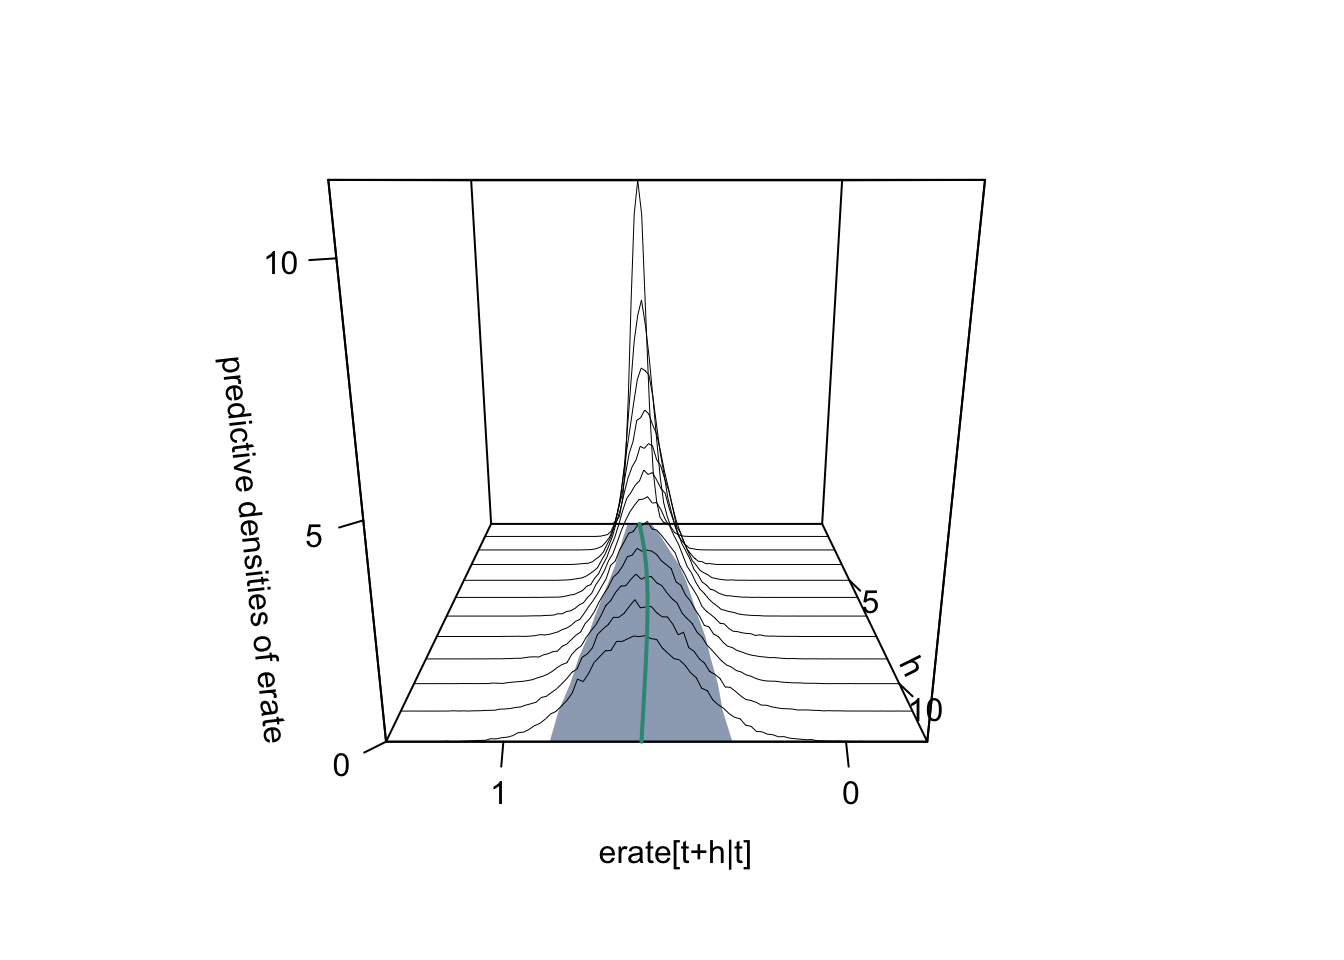
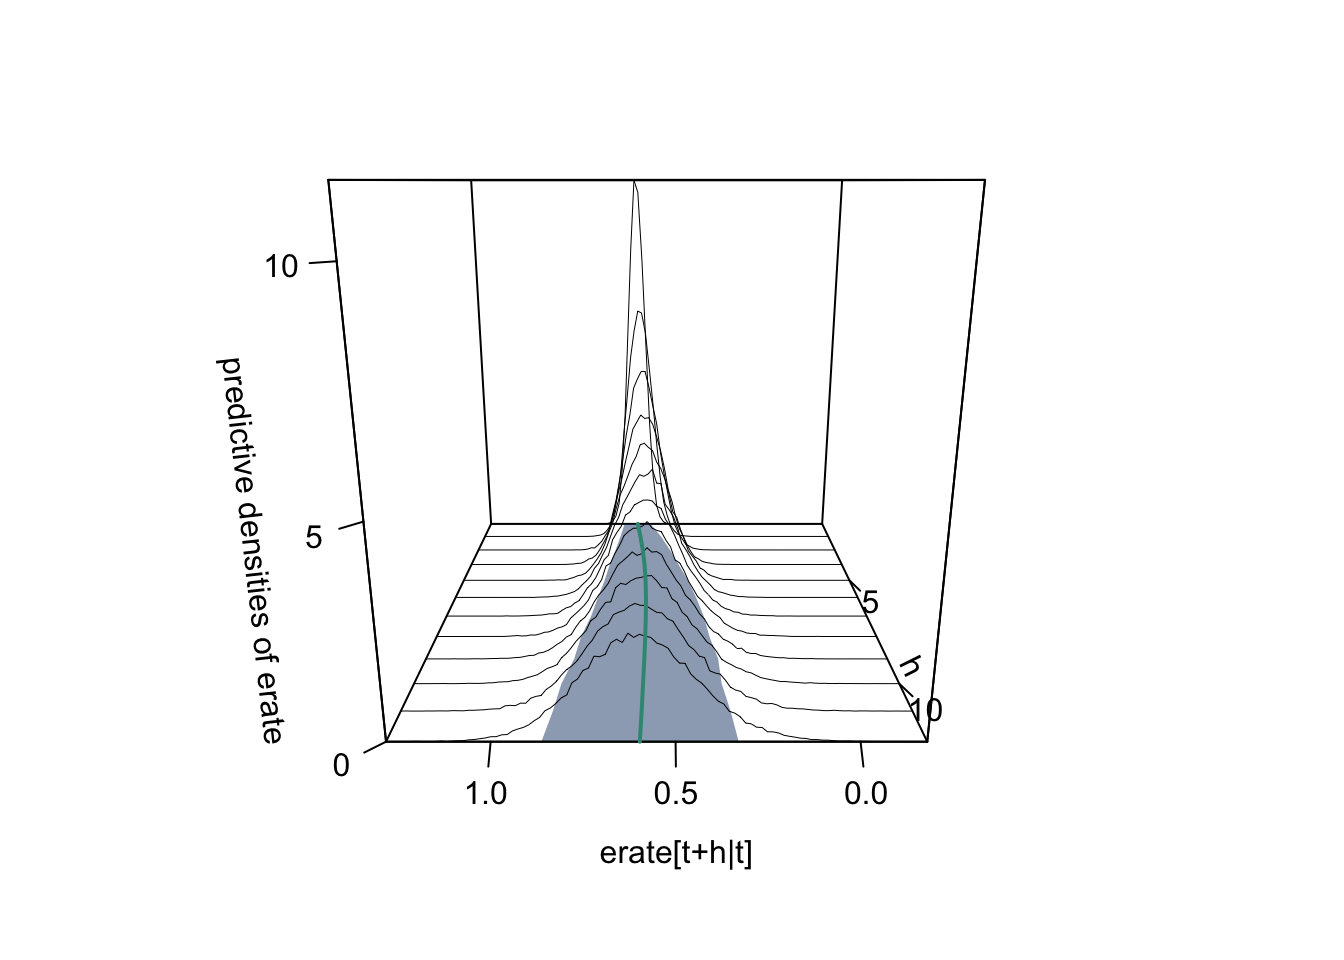
change of initial value

diff --git a/docs/index.html b/docs/index.html
@@ -583,13 +583,13 @@ p &amp;= -\frac{TN}{2}+1
 <tbody>
 <tr class="odd">
 <td style="text-align: left;">Y1-Lag</td>
-<td style="text-align: right;">0.9787016</td>
-<td style="text-align: right;">0.0881123</td>
+<td style="text-align: right;">0.9788129</td>
+<td style="text-align: right;">0.0878723</td>
 </tr>
 <tr class="even">
 <td style="text-align: left;">Y2-Lag</td>
-<td style="text-align: right;">0.0881123</td>
-<td style="text-align: right;">1.0174388</td>
+<td style="text-align: right;">0.0878723</td>
+<td style="text-align: right;">1.0174290</td>
 </tr>
 </tbody>
 </table>
@@ -609,18 +609,18 @@ p &amp;= -\frac{TN}{2}+1
 <tbody>
 <tr class="odd">
 <td style="text-align: left;">Constant</td>
-<td style="text-align: right;">0.0608157</td>
-<td style="text-align: right;">0.0809976</td>
+<td style="text-align: right;">0.0609175</td>
+<td style="text-align: right;">0.0811382</td>
 </tr>
 <tr class="even">
 <td style="text-align: left;">Y1-Lag</td>
-<td style="text-align: right;">0.9887122</td>
-<td style="text-align: right;">0.0051134</td>
+<td style="text-align: right;">0.9887131</td>
+<td style="text-align: right;">0.0050850</td>
 </tr>
 <tr class="odd">
 <td style="text-align: left;">Y2-Lag</td>
-<td style="text-align: right;">0.0025983</td>
-<td style="text-align: right;">0.9955579</td>
+<td style="text-align: right;">0.0025897</td>
+<td style="text-align: right;">0.9955687</td>
 </tr>
 </tbody>
 </table>
@@ -664,12 +664,12 @@ p &amp;= -\frac{TN}{2}+1
 <p>Interactive versions of the above 3D plots are provided below.</p>
 <div class="cell">
 <div class="cell-output-display">
-<div class="plotly html-widget html-fill-item-overflow-hidden html-fill-item" id="htmlwidget-8d248697e186e7785808" style="width:100%;height:464px;"></div>
-<script type="application/json" data-for="htmlwidget-8d248697e186e7785808">{"x":{"visdat":{"17f022ad99395":["function () ","plotlyVisDat"]},"cur_data":"17f022ad99395","attrs":{"17f022ad99395":{"y":[1,2,3,4,5,6,7,8,9,10,11,12],"x":[0.133400100270774,0.257357191651565,0.381314283032355,0.505271374413146,0.629228465793937,0.753185557174728,0.877142648555518,1.00109973993631,1.1250568313171],"z":[[0,0,0,0.112458269589248,7.05808752249877,0.896761925935495,0,0,0],[0,0,0.000645384617441882,0.523084232436645,6.03305540384671,1.50632769710935,0.00419500001337223,0,0],[0,0,0.0101648077247096,0.898698079787821,5.31829194002982,1.81046519807884,0.0296876924023265,0,0],[0,0.000322692308720941,0.0322692308720941,1.17976308068376,4.78391347678795,1.9885913524928,0.0821251925694794,0.000322692308720941,0],[0,0.000645384617441882,0.0692175002206418,1.4000005813858,4.38167751396729,2.06732827582071,0.146502308159307,0.00193615385232565,0],[0,0.00322692308720941,0.118589423454946,1.54263058184046,4.06802058989054,2.11137577596112,0.219108077621519,0.00419500001337224,0.00016134615436047],[0.00016134615436047,0.00758326925494211,0.176835385179076,1.66154269760412,3.7816311659007,2.13815923758495,0.291068462466288,0.0101648077247096,0.00016134615436047],[0.00016134615436047,0.0150051923555237,0.242987308466868,1.75947981330093,3.54703385746058,2.1204111606053,0.361899424230535,0.0200069231406984,0.000322692308720941],[0.000484038463081411,0.0240405769997101,0.31543173177472,1.79981635189105,3.35293443376493,2.11137577596112,0.432569039840421,0.0303330770197685,0.000322692308720941],[0.00129076923488376,0.0327532693351755,0.393200578176466,1.81724173656198,3.19820347173324,2.08330154510239,0.495494040041004,0.0446928847578504,0.00112942308052329],[0.00258153846976753,0.0432407693686061,0.468871924571527,1.83095615968262,3.05863904821144,2.04780539114309,0.550997117141006,0.0619569232744207,0.00225884616104658],[0.00403365385901176,0.0635703848180253,0.532442309389552,1.82934269813901,2.95263462479661,1.99649731405646,0.604080001925601,0.0797050002540725,0.00500173078517458]],"alpha_stroke":1,"sizes":[10,100],"spans":[1,20],"type":"surface","colors":["#05386B","#8EE4AF","#EDF5E1"],"inherit":true}},"layout":{"margin":{"b":40,"l":60,"t":25,"r":10},"scene":{"xaxis":{"title":"AUD/USD"},"yaxis":{"title":"h-step forecast"},"zaxis":{"title":"density"}},"title":"AUD/USD forecast densities for basic model","hovermode":"closest","showlegend":false,"legend":{"yanchor":"top","y":0.5}},"source":"A","config":{"modeBarButtonsToAdd":["hoverclosest","hovercompare"],"showSendToCloud":false},"data":[{"colorbar":{"title":"","ticklen":2,"len":0.5,"lenmode":"fraction","y":1,"yanchor":"top"},"colorscale":[["0","rgba(5,56,107,1)"],["0.0416666666666667","rgba(28,69,113,1)"],["0.0833333333333333","rgba(42,81,119,1)"],["0.125","rgba(54,95,125,1)"],["0.166666666666667","rgba(65,109,130,1)"],["0.208333333333333","rgba(76,123,136,1)"],["0.25","rgba(86,137,142,1)"],["0.291666666666667","rgba(95,151,148,1)"],["0.333333333333333","rgba(105,166,153,1)"],["0.375","rgba(114,181,159,1)"],["0.416666666666667","rgba(124,197,164,1)"],["0.458333333333333","rgba(133,212,170,1)"],["0.5","rgba(142,228,175,1)"],["0.541666666666667","rgba(151,230,179,1)"],["0.583333333333333","rgba(159,231,183,1)"],["0.625","rgba(168,233,187,1)"],["0.666666666666667","rgba(176,234,191,1)"],["0.708333333333333","rgba(184,236,196,1)"],["0.75","rgba(192,237,200,1)"],["0.791666666666667","rgba(199,238,204,1)"],["0.833333333333333","rgba(207,240,208,1)"],["0.875","rgba(215,241,212,1)"],["0.916666666666667","rgba(222,242,217,1)"],["0.958333333333333","rgba(230,244,221,1)"],["1","rgba(237,245,225,1)"]],"showscale":true,"y":[1,2,3,4,5,6,7,8,9,10,11,12],"x":[0.133400100270774,0.257357191651565,0.381314283032355,0.505271374413146,0.629228465793937,0.753185557174728,0.877142648555518,1.00109973993631,1.1250568313171],"z":[[0,0,0,0.112458269589248,7.05808752249877,0.896761925935495,0,0,0],[0,0,0.000645384617441882,0.523084232436645,6.03305540384671,1.50632769710935,0.00419500001337223,0,0],[0,0,0.0101648077247096,0.898698079787821,5.31829194002982,1.81046519807884,0.0296876924023265,0,0],[0,0.000322692308720941,0.0322692308720941,1.17976308068376,4.78391347678795,1.9885913524928,0.0821251925694794,0.000322692308720941,0],[0,0.000645384617441882,0.0692175002206418,1.4000005813858,4.38167751396729,2.06732827582071,0.146502308159307,0.00193615385232565,0],[0,0.00322692308720941,0.118589423454946,1.54263058184046,4.06802058989054,2.11137577596112,0.219108077621519,0.00419500001337224,0.00016134615436047],[0.00016134615436047,0.00758326925494211,0.176835385179076,1.66154269760412,3.7816311659007,2.13815923758495,0.291068462466288,0.0101648077247096,0.00016134615436047],[0.00016134615436047,0.0150051923555237,0.242987308466868,1.75947981330093,3.54703385746058,2.1204111606053,0.361899424230535,0.0200069231406984,0.000322692308720941],[0.000484038463081411,0.0240405769997101,0.31543173177472,1.79981635189105,3.35293443376493,2.11137577596112,0.432569039840421,0.0303330770197685,0.000322692308720941],[0.00129076923488376,0.0327532693351755,0.393200578176466,1.81724173656198,3.19820347173324,2.08330154510239,0.495494040041004,0.0446928847578504,0.00112942308052329],[0.00258153846976753,0.0432407693686061,0.468871924571527,1.83095615968262,3.05863904821144,2.04780539114309,0.550997117141006,0.0619569232744207,0.00225884616104658],[0.00403365385901176,0.0635703848180253,0.532442309389552,1.82934269813901,2.95263462479661,1.99649731405646,0.604080001925601,0.0797050002540725,0.00500173078517458]],"type":"surface","frame":null}],"highlight":{"on":"plotly_click","persistent":false,"dynamic":false,"selectize":false,"opacityDim":0.2,"selected":{"opacity":1},"debounce":0},"shinyEvents":["plotly_hover","plotly_click","plotly_selected","plotly_relayout","plotly_brushed","plotly_brushing","plotly_clickannotation","plotly_doubleclick","plotly_deselect","plotly_afterplot","plotly_sunburstclick"],"base_url":"https://plot.ly"},"evals":[],"jsHooks":[]}</script>
+<div class="plotly html-widget html-fill-item-overflow-hidden html-fill-item" id="htmlwidget-03359eee4737d81a7af1" style="width:100%;height:464px;"></div>
+<script type="application/json" data-for="htmlwidget-03359eee4737d81a7af1">{"x":{"visdat":{"183df65e7c3fb":["function () ","plotlyVisDat"]},"cur_data":"183df65e7c3fb","attrs":{"183df65e7c3fb":{"y":[1,2,3,4,5,6,7,8,9,10,11,12],"x":[0.0748893688009553,0.202692718589129,0.330496068377303,0.458299418165477,0.58610276795365,0.713906117741824,0.841709467529998,0.969512817318172,1.09731616710635],"z":[[0,0,0,0.00359927968055941,4.13870216138063,3.6812806611078,0.000938942525363323,0,0],[0,0,0,0.0741764595037025,4.11679350245549,3.59536742003706,0.0381836626981085,0,0],[0,0,0.000625961683575549,0.218460627567867,3.98049034585691,3.48003397983826,0.144440658485058,0.000469471262681662,0],[0,0,0.00312980841787774,0.389661148025779,3.81210665297509,3.35891039406639,0.259148137000277,0.00156490420893887,0],[0,0,0.0117367815670415,0.565712871531402,3.62979531263371,3.22871036388268,0.38246258866466,0.0061031264148616,0],[0,0.000312980841787774,0.0289507278653691,0.712813867171656,3.48848446256653,3.07128100046343,0.506246511591725,0.0164314941938582,0],[0,0.000312980841787774,0.0533632335248155,0.846143705773248,3.32573442483689,2.95782544531536,0.611564564853311,0.0292637087071569,0.000312980841787774],[0,0.00234735631340831,0.0854437698080624,0.957408395028802,3.19850771265016,2.8365453691226,0.699512181395676,0.0441302986920762,0.000625961683575548],[0,0.00516418388949828,0.113455555148068,1.05677981229642,3.08583460960656,2.73028837333565,0.768367966588986,0.062439677936661,0.00219086589251442],[0.000156490420893887,0.00845048272826991,0.155238497526736,1.13455555148068,2.97175309277492,2.64218426637239,0.817192977907879,0.0899819920139851,0.00500769346860439],[0.000156490420893887,0.0142406283013437,0.192483217699481,1.19386542099947,2.87441605097892,2.56080924750757,0.863044671229788,0.11674185398684,0.00876346357005768],[0.000469471262681662,0.0195613026117359,0.238804382284072,1.24785461620786,2.77347972950236,2.4756784585413,0.909365835814378,0.146631524377572,0.0126757240924049]],"alpha_stroke":1,"sizes":[10,100],"spans":[1,20],"type":"surface","colors":["#05386B","#8EE4AF","#EDF5E1"],"inherit":true}},"layout":{"margin":{"b":40,"l":60,"t":25,"r":10},"scene":{"xaxis":{"title":"AUD/USD"},"yaxis":{"title":"h-step forecast"},"zaxis":{"title":"density"}},"title":"AUD/USD forecast densities for basic model","hovermode":"closest","showlegend":false,"legend":{"yanchor":"top","y":0.5}},"source":"A","config":{"modeBarButtonsToAdd":["hoverclosest","hovercompare"],"showSendToCloud":false},"data":[{"colorbar":{"title":"","ticklen":2,"len":0.5,"lenmode":"fraction","y":1,"yanchor":"top"},"colorscale":[["0","rgba(5,56,107,1)"],["0.0416666666666667","rgba(28,69,113,1)"],["0.0833333333333333","rgba(42,81,119,1)"],["0.125","rgba(54,95,125,1)"],["0.166666666666667","rgba(65,109,130,1)"],["0.208333333333333","rgba(76,123,136,1)"],["0.25","rgba(86,137,142,1)"],["0.291666666666667","rgba(95,151,148,1)"],["0.333333333333333","rgba(105,166,153,1)"],["0.375","rgba(114,181,159,1)"],["0.416666666666667","rgba(124,197,164,1)"],["0.458333333333333","rgba(133,212,170,1)"],["0.5","rgba(142,228,175,1)"],["0.541666666666667","rgba(151,230,179,1)"],["0.583333333333333","rgba(159,231,183,1)"],["0.625","rgba(168,233,187,1)"],["0.666666666666667","rgba(176,234,191,1)"],["0.708333333333333","rgba(184,236,196,1)"],["0.75","rgba(192,237,200,1)"],["0.791666666666667","rgba(199,238,204,1)"],["0.833333333333333","rgba(207,240,208,1)"],["0.875","rgba(215,241,212,1)"],["0.916666666666667","rgba(222,242,217,1)"],["0.958333333333333","rgba(230,244,221,1)"],["1","rgba(237,245,225,1)"]],"showscale":true,"y":[1,2,3,4,5,6,7,8,9,10,11,12],"x":[0.0748893688009553,0.202692718589129,0.330496068377303,0.458299418165477,0.58610276795365,0.713906117741824,0.841709467529998,0.969512817318172,1.09731616710635],"z":[[0,0,0,0.00359927968055941,4.13870216138063,3.6812806611078,0.000938942525363323,0,0],[0,0,0,0.0741764595037025,4.11679350245549,3.59536742003706,0.0381836626981085,0,0],[0,0,0.000625961683575549,0.218460627567867,3.98049034585691,3.48003397983826,0.144440658485058,0.000469471262681662,0],[0,0,0.00312980841787774,0.389661148025779,3.81210665297509,3.35891039406639,0.259148137000277,0.00156490420893887,0],[0,0,0.0117367815670415,0.565712871531402,3.62979531263371,3.22871036388268,0.38246258866466,0.0061031264148616,0],[0,0.000312980841787774,0.0289507278653691,0.712813867171656,3.48848446256653,3.07128100046343,0.506246511591725,0.0164314941938582,0],[0,0.000312980841787774,0.0533632335248155,0.846143705773248,3.32573442483689,2.95782544531536,0.611564564853311,0.0292637087071569,0.000312980841787774],[0,0.00234735631340831,0.0854437698080624,0.957408395028802,3.19850771265016,2.8365453691226,0.699512181395676,0.0441302986920762,0.000625961683575548],[0,0.00516418388949828,0.113455555148068,1.05677981229642,3.08583460960656,2.73028837333565,0.768367966588986,0.062439677936661,0.00219086589251442],[0.000156490420893887,0.00845048272826991,0.155238497526736,1.13455555148068,2.97175309277492,2.64218426637239,0.817192977907879,0.0899819920139851,0.00500769346860439],[0.000156490420893887,0.0142406283013437,0.192483217699481,1.19386542099947,2.87441605097892,2.56080924750757,0.863044671229788,0.11674185398684,0.00876346357005768],[0.000469471262681662,0.0195613026117359,0.238804382284072,1.24785461620786,2.77347972950236,2.4756784585413,0.909365835814378,0.146631524377572,0.0126757240924049]],"type":"surface","frame":null}],"highlight":{"on":"plotly_click","persistent":false,"dynamic":false,"selectize":false,"opacityDim":0.2,"selected":{"opacity":1},"debounce":0},"shinyEvents":["plotly_hover","plotly_click","plotly_selected","plotly_relayout","plotly_brushed","plotly_brushing","plotly_clickannotation","plotly_doubleclick","plotly_deselect","plotly_afterplot","plotly_sunburstclick"],"base_url":"https://plot.ly"},"evals":[],"jsHooks":[]}</script>
 </div>
 <div class="cell-output-display">
-<div class="plotly html-widget html-fill-item-overflow-hidden html-fill-item" id="htmlwidget-5457d43e2f3ddfe02772" style="width:100%;height:464px;"></div>
-<script type="application/json" data-for="htmlwidget-5457d43e2f3ddfe02772">{"x":{"visdat":{"17f023268312d":["function () ","plotlyVisDat"]},"cur_data":"17f023268312d","attrs":{"17f023268312d":{"y":[1,2,3,4,5,6,7,8,9,10,11,12],"x":[-0.156445400441394,0.0208421565402784,0.198129713521951,0.375417270503624,0.552704827485296,0.729992384466969,0.907279941448642,1.08456749843031,1.26185505541199],"z":[[0,0,0,0,3.26901428065517,2.37153950115015,0,0,0],[0,0,0,0.00990230552805823,3.71123369714871,1.91904174220976,0.000376036918787022,0,0],[0,0,0,0.0982709814430083,3.81213693702323,1.72450530955728,0.00564055378180532,0,0],[0,0,0.000626728197978369,0.298824004796086,3.66059405875206,1.66057903336349,0.0199299566957121,0,0],[0,0,0.00413640610665723,0.51166090082954,3.41729817229685,1.65794677493198,0.0493861820006955,0.000125345639595674,0],[0,0.000125345639595674,0.0162949331474376,0.676991799456234,3.18616081288243,1.67073203017074,0.0897474779505025,0.000501382558382695,0],[0,0.000376036918787021,0.0404866415894026,0.785541123346088,2.98836539360046,1.6891578391913,0.134871908204945,0.00175483895433943,0],[0,0.00150414767514809,0.0632995479958152,0.867391826002063,2.7930768871104,1.72036890345062,0.191277446022998,0.00363502354827454,0],[0,0.00325898662948752,0.0906248974276721,0.916652662363163,2.62899944487966,1.73917074938997,0.25294750070407,0.00877419477169717,0.000125345639595674],[0.000250691279191348,0.00727004709654908,0.117072827382359,0.94510612255138,2.48184366399434,1.76235969271517,0.311107877476463,0.0150414767514809,0.000501382558382695],[0.000626728197978369,0.0116571444823977,0.135122599484136,0.951373404531164,2.37442245086085,1.77664909562908,0.367012032736133,0.022687560766817,0.00100276511676539],[0.00137880203555241,0.0162949331474376,0.157559468971762,0.965036079247093,2.25208510661547,1.78855693139067,0.423918953112569,0.0343447052492146,0.00137880203555241]],"alpha_stroke":1,"sizes":[10,100],"spans":[1,20],"type":"surface","colors":["#05386B","magenta2","#EDF5E1"],"inherit":true}},"layout":{"margin":{"b":40,"l":60,"t":25,"r":10},"scene":{"xaxis":{"title":"AUD/USD"},"yaxis":{"title":"h-step forecast"},"zaxis":{"title":"density"}},"title":"AUD/USD forecast densities for extended model","hovermode":"closest","showlegend":false,"legend":{"yanchor":"top","y":0.5}},"source":"A","config":{"modeBarButtonsToAdd":["hoverclosest","hovercompare"],"showSendToCloud":false},"data":[{"colorbar":{"title":"","ticklen":2,"len":0.5,"lenmode":"fraction","y":1,"yanchor":"top"},"colorscale":[["0","rgba(5,56,107,1)"],["0.0416666666666667","rgba(40,58,117,1)"],["0.0833333333333333","rgba(62,60,127,1)"],["0.125","rgba(81,61,138,1)"],["0.166666666666667","rgba(99,62,148,1)"],["0.208333333333333","rgba(116,61,159,1)"],["0.25","rgba(134,60,170,1)"],["0.291666666666667","rgba(151,58,181,1)"],["0.333333333333333","rgba(168,55,192,1)"],["0.375","rgba(185,49,203,1)"],["0.416666666666667","rgba(203,42,215,1)"],["0.458333333333333","rgba(220,29,226,1)"],["0.5","rgba(238,0,238,1)"],["0.541666666666667","rgba(240,59,237,1)"],["0.583333333333333","rgba(242,85,237,1)"],["0.625","rgba(243,106,236,1)"],["0.666666666666667","rgba(244,125,235,1)"],["0.708333333333333","rgba(245,142,234,1)"],["0.75","rgba(245,158,233,1)"],["0.791666666666667","rgba(245,173,232,1)"],["0.833333333333333","rgba(245,188,231,1)"],["0.875","rgba(243,203,230,1)"],["0.916666666666667","rgba(242,217,228,1)"],["0.958333333333333","rgba(240,231,227,1)"],["1","rgba(237,245,225,1)"]],"showscale":true,"y":[1,2,3,4,5,6,7,8,9,10,11,12],"x":[-0.156445400441394,0.0208421565402784,0.198129713521951,0.375417270503624,0.552704827485296,0.729992384466969,0.907279941448642,1.08456749843031,1.26185505541199],"z":[[0,0,0,0,3.26901428065517,2.37153950115015,0,0,0],[0,0,0,0.00990230552805823,3.71123369714871,1.91904174220976,0.000376036918787022,0,0],[0,0,0,0.0982709814430083,3.81213693702323,1.72450530955728,0.00564055378180532,0,0],[0,0,0.000626728197978369,0.298824004796086,3.66059405875206,1.66057903336349,0.0199299566957121,0,0],[0,0,0.00413640610665723,0.51166090082954,3.41729817229685,1.65794677493198,0.0493861820006955,0.000125345639595674,0],[0,0.000125345639595674,0.0162949331474376,0.676991799456234,3.18616081288243,1.67073203017074,0.0897474779505025,0.000501382558382695,0],[0,0.000376036918787021,0.0404866415894026,0.785541123346088,2.98836539360046,1.6891578391913,0.134871908204945,0.00175483895433943,0],[0,0.00150414767514809,0.0632995479958152,0.867391826002063,2.7930768871104,1.72036890345062,0.191277446022998,0.00363502354827454,0],[0,0.00325898662948752,0.0906248974276721,0.916652662363163,2.62899944487966,1.73917074938997,0.25294750070407,0.00877419477169717,0.000125345639595674],[0.000250691279191348,0.00727004709654908,0.117072827382359,0.94510612255138,2.48184366399434,1.76235969271517,0.311107877476463,0.0150414767514809,0.000501382558382695],[0.000626728197978369,0.0116571444823977,0.135122599484136,0.951373404531164,2.37442245086085,1.77664909562908,0.367012032736133,0.022687560766817,0.00100276511676539],[0.00137880203555241,0.0162949331474376,0.157559468971762,0.965036079247093,2.25208510661547,1.78855693139067,0.423918953112569,0.0343447052492146,0.00137880203555241]],"type":"surface","frame":null}],"highlight":{"on":"plotly_click","persistent":false,"dynamic":false,"selectize":false,"opacityDim":0.2,"selected":{"opacity":1},"debounce":0},"shinyEvents":["plotly_hover","plotly_click","plotly_selected","plotly_relayout","plotly_brushed","plotly_brushing","plotly_clickannotation","plotly_doubleclick","plotly_deselect","plotly_afterplot","plotly_sunburstclick"],"base_url":"https://plot.ly"},"evals":[],"jsHooks":[]}</script>
+<div class="plotly html-widget html-fill-item-overflow-hidden html-fill-item" id="htmlwidget-04f9c57a012d8ac6bba3" style="width:100%;height:464px;"></div>
+<script type="application/json" data-for="htmlwidget-04f9c57a012d8ac6bba3">{"x":{"visdat":{"183df52f3c801":["function () ","plotlyVisDat"]},"cur_data":"183df52f3c801","attrs":{"183df52f3c801":{"y":[1,2,3,4,5,6,7,8,9,10,11,12],"x":[-0.105603237513345,0.0586114596049928,0.22282615672333,0.387040853841667,0.551255550960005,0.715470248078342,0.879684945196679,1.04389964231502,1.20811433943335],"z":[[0,0,0,0,2.96508850703071,3.12450041252485,0,0,0],[0,0,0,0.0138030682176593,3.63440199138897,2.43732413400256,0.00405972594637038,0,0],[0,0,0,0.129099285094578,3.78718301117071,2.15557915332446,0.0177274699658173,0,0],[0,0,0.00162389037854815,0.357797180073443,3.65916631966183,2.01511263558004,0.0558888938616989,0,0],[0,0,0.00906672128022717,0.590284152602253,3.43682866199895,1.95083364142918,0.102305093848534,0.000270648396424692,0],[0,0,0.0297713236067161,0.759304076169473,3.2148969769307,1.91997972423676,0.163471631440514,0.00216518717139753,0],[0,0.000676620991061729,0.0607605649973433,0.875547562433878,2.99296529186245,1.92403945018313,0.228968543375289,0.00663088571240495,0],[0,0.0032477807570963,0.0910731853969088,0.953629624802402,2.80310544177053,1.91862648225464,0.306915281545601,0.0128557988301729,0.000135324198212346],[0.000135324198212346,0.00717218250525433,0.128422664103516,0.994226884266106,2.64951247679952,1.91118365135296,0.376742567823171,0.0216518717139754,0.000541296792849383],[0.000676620991061729,0.0128557988301729,0.168884599369008,1.0127662994212,2.50498623310874,1.91199559654223,0.440886237775823,0.0354549399316346,0.00108259358569877],[0.0014885661803358,0.0198926571372148,0.189318553299072,1.02656936763886,2.39429103897104,1.89832785252279,0.505165231926688,0.0516938437171161,0.00284180816245926],[0.00243583556782223,0.0258469218585581,0.218819228509363,1.02859923061204,2.28860284016719,1.89102034581932,0.561324774184811,0.0682033958990224,0.0047363469374321]],"alpha_stroke":1,"sizes":[10,100],"spans":[1,20],"type":"surface","colors":["#05386B","magenta2","#EDF5E1"],"inherit":true}},"layout":{"margin":{"b":40,"l":60,"t":25,"r":10},"scene":{"xaxis":{"title":"AUD/USD"},"yaxis":{"title":"h-step forecast"},"zaxis":{"title":"density"}},"title":"AUD/USD forecast densities for extended model","hovermode":"closest","showlegend":false,"legend":{"yanchor":"top","y":0.5}},"source":"A","config":{"modeBarButtonsToAdd":["hoverclosest","hovercompare"],"showSendToCloud":false},"data":[{"colorbar":{"title":"","ticklen":2,"len":0.5,"lenmode":"fraction","y":1,"yanchor":"top"},"colorscale":[["0","rgba(5,56,107,1)"],["0.0416666666666667","rgba(40,58,117,1)"],["0.0833333333333333","rgba(62,60,127,1)"],["0.125","rgba(81,61,138,1)"],["0.166666666666667","rgba(99,62,148,1)"],["0.208333333333333","rgba(116,61,159,1)"],["0.25","rgba(134,60,170,1)"],["0.291666666666667","rgba(151,58,181,1)"],["0.333333333333333","rgba(168,55,192,1)"],["0.375","rgba(185,49,203,1)"],["0.416666666666667","rgba(203,42,215,1)"],["0.458333333333333","rgba(220,29,226,1)"],["0.5","rgba(238,0,238,1)"],["0.541666666666667","rgba(240,59,237,1)"],["0.583333333333333","rgba(242,85,237,1)"],["0.625","rgba(243,106,236,1)"],["0.666666666666667","rgba(244,125,235,1)"],["0.708333333333333","rgba(245,142,234,1)"],["0.75","rgba(245,158,233,1)"],["0.791666666666667","rgba(245,173,232,1)"],["0.833333333333333","rgba(245,188,231,1)"],["0.875","rgba(243,203,230,1)"],["0.916666666666667","rgba(242,217,228,1)"],["0.958333333333333","rgba(240,231,227,1)"],["1","rgba(237,245,225,1)"]],"showscale":true,"y":[1,2,3,4,5,6,7,8,9,10,11,12],"x":[-0.105603237513345,0.0586114596049928,0.22282615672333,0.387040853841667,0.551255550960005,0.715470248078342,0.879684945196679,1.04389964231502,1.20811433943335],"z":[[0,0,0,0,2.96508850703071,3.12450041252485,0,0,0],[0,0,0,0.0138030682176593,3.63440199138897,2.43732413400256,0.00405972594637038,0,0],[0,0,0,0.129099285094578,3.78718301117071,2.15557915332446,0.0177274699658173,0,0],[0,0,0.00162389037854815,0.357797180073443,3.65916631966183,2.01511263558004,0.0558888938616989,0,0],[0,0,0.00906672128022717,0.590284152602253,3.43682866199895,1.95083364142918,0.102305093848534,0.000270648396424692,0],[0,0,0.0297713236067161,0.759304076169473,3.2148969769307,1.91997972423676,0.163471631440514,0.00216518717139753,0],[0,0.000676620991061729,0.0607605649973433,0.875547562433878,2.99296529186245,1.92403945018313,0.228968543375289,0.00663088571240495,0],[0,0.0032477807570963,0.0910731853969088,0.953629624802402,2.80310544177053,1.91862648225464,0.306915281545601,0.0128557988301729,0.000135324198212346],[0.000135324198212346,0.00717218250525433,0.128422664103516,0.994226884266106,2.64951247679952,1.91118365135296,0.376742567823171,0.0216518717139754,0.000541296792849383],[0.000676620991061729,0.0128557988301729,0.168884599369008,1.0127662994212,2.50498623310874,1.91199559654223,0.440886237775823,0.0354549399316346,0.00108259358569877],[0.0014885661803358,0.0198926571372148,0.189318553299072,1.02656936763886,2.39429103897104,1.89832785252279,0.505165231926688,0.0516938437171161,0.00284180816245926],[0.00243583556782223,0.0258469218585581,0.218819228509363,1.02859923061204,2.28860284016719,1.89102034581932,0.561324774184811,0.0682033958990224,0.0047363469374321]],"type":"surface","frame":null}],"highlight":{"on":"plotly_click","persistent":false,"dynamic":false,"selectize":false,"opacityDim":0.2,"selected":{"opacity":1},"debounce":0},"shinyEvents":["plotly_hover","plotly_click","plotly_selected","plotly_relayout","plotly_brushed","plotly_brushing","plotly_clickannotation","plotly_doubleclick","plotly_deselect","plotly_afterplot","plotly_sunburstclick"],"base_url":"https://plot.ly"},"evals":[],"jsHooks":[]}</script>
 </div>
 </div>
 <p>The 3D plots above allow us to access to alternative vantage points. We could notice that for the first few forecasting periods, the extended model has very sharp and concentrated densities around the point estimated, and it shows clearly heavy tails, which may increase the possibility of capturing extreme values that deviate significantly from the central forecast.</p>
